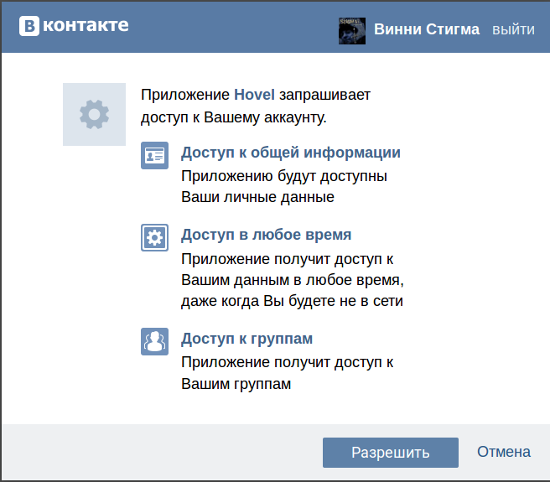
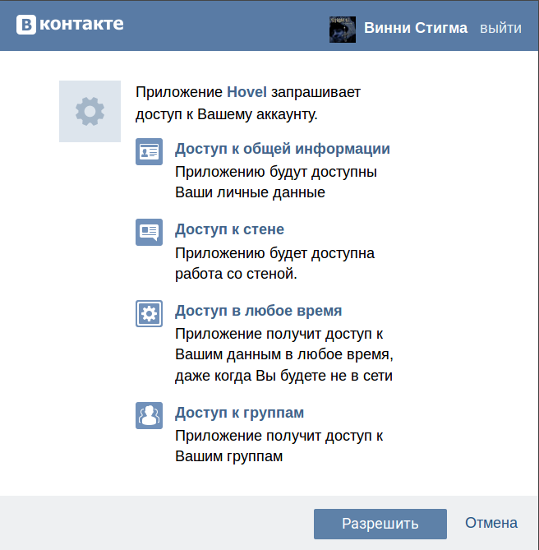
switched to generated key with wall access rights + added more pics

Changed region(s): [[0.0, 0.0, 1.0, 1.0], [0.9796, 0.0, 1.0, 0.0311]]

diff --git a/makeAnnouncement.js b/makeAnnouncement.js
@@ -7,9 +7,12 @@ const fs = require('fs');
 const co = require('co');
 
 co(function* () {
+  console.log("hi");
   let message = config.announcementMessage
-    .replace("%NEXT_PERIOD%", DateUtils.getNextPeriod())
+    .replace("%NEXT_PERIOD%", DateUtils.getNextPeriod(config.periodLengthInMonths))
     .replace("%ANSWER_DEADLINE%", DateUtils.getFutureDateAsString(config.daysToAnswerDeadline));
+  console.log(message);
+
 
   let postId = yield* WallService.post(config.vkAccessToken,
     config.vkGroupOwnerId,
@@ -20,6 +23,8 @@ co(function* () {
     id : postId,
     date : new Date()
   }
+
+  console.log(post);
 
   fs.writeFile('lastPost.json', JSON.stringify(post), function (err) {
     if (err) throw err;

diff --git a/services/DateUtils.js b/services/DateUtils.js
@@ -9,11 +9,16 @@ let getFutureMonthName = function (months) {
   return moment().add(months, "months").format('MMMM')
 }
 
-module.exports.getNextPeriod = function () {
-  return "(" + getFutureMonthName(1) + "-" + getFutureMonthName(config.periodLengthInMonths) + ")";
+module.exports.getNextPeriod = function (periodLengthInMonths) {
+console.log("hi there");
+  if (periodLengthInMonths <= 1) {
+    return "(" + getFutureMonthName(1) + ")";
+  }
+  return "(" + getFutureMonthName(1) + "-" + getFutureMonthName(periodLengthInMonths) + ")";
 }
 
 module.exports.getFutureDateAsString = function (days) {
+  ;console.log("ho")
   return moment().add(days, "days").format('DD.MM.YY');
 }
 

diff --git a/README.md b/README.md
@@ -14,7 +14,7 @@
 Требования
 ----------
 
-**node** v5.0.0  
+**node** v5.0.0
 **npm** v3.3.6
 
 Создание приложения
@@ -37,17 +37,18 @@
 Мы получим ключ с помощью Implicit Flow - самого короткого и простого варианта. Ключ к тому же будет вечный (обновлять его не потребуется), что не очень безопасно, но в нашем случае это некритично.
 
 Для того, чтобы получить ключ введите в адресной строке вашего браузера следующее:
-https://oauth.vk.com/authorize?client_id=CLIENT_ID&display=page&redirect_uri=https://oauth.vk.com/blank.html&scope=groups,offline&response_type=token
+https://oauth.vk.com/authorize?client_id=CLIENT_ID&display=page&redirect_uri=https://oauth.vk.com/blank.html&scope=groups,wall,offline&response_type=token
 вместо **CLIENT_ID** укажите ID вашего приложения (можно посмотреть на странице настроек вашего приложения, как описано выше).
 Остальные параметры:
 - ```display=page``` : 	Указывает тип отображения страницы авторизации.
 **page** — форма авторизации в отдельном окне;
 - ```redirect_uri=https://oauth.vk.com/blank.html``` : Адрес, на который будет переадресован пользователь после прохождения авторизации.
 В нашем случае необходимо использовать **redirect_uri** по умолчанию;
-- ```scope=groups,offline``` : определяем права, запрашиваемые для генерируемымого access token'а.
-**groups** - указывает, что нам нужны права для доступа и постинга в группе, ведь мы хотим постить на стену некой группы,
-**offline** - генерирует вечный ключ.
-- ```response_type=token```	: Указываем, что мы хотим получить access token с респонсом.
+- ```scope=groups,wall,offline``` : запрашиваемые права для генерируемымого access token'а.
+**groups** - запрашиваем права для доступа к группам пользователя,
+**wall** - запрашиваем права для доступа к стене пользователя/группы,
+**offline** - генерируем вечный ключ.
+- ```response_type=token```	: Указываем, что мы, естественно, хотим получить access token с респонсом.
 
 Нужно больше больше прав или более тонкая настройка? [Bсё есть в документации VK](https://vk.com/dev/implicit_flow_user).
 
@@ -94,8 +95,12 @@ https://oauth.vk.com/authorize?client_id=CLIENT_ID&display=page&redirect_uri=htt
 
 Теперь давайте сделаем вид, кто ребята откликнулись на ваш опросник и ответили. Добавьте под вашим сообщением несколько комментов по шаблону описанному выше.
 
+![alt text](img/post_and_comments.png "Пост с комментариями")
+
 А теперь давайте добавим итоговый пост с помощью комманды:
 ```node collectData.js```.
 Смотрим на стену и наслаждаемся.
+
+![alt text](img/result_post.png "Итоговый пост")
 
 Теперь осталось только задать расписание выполнения наших скриптов, но об этом несколько позже.
